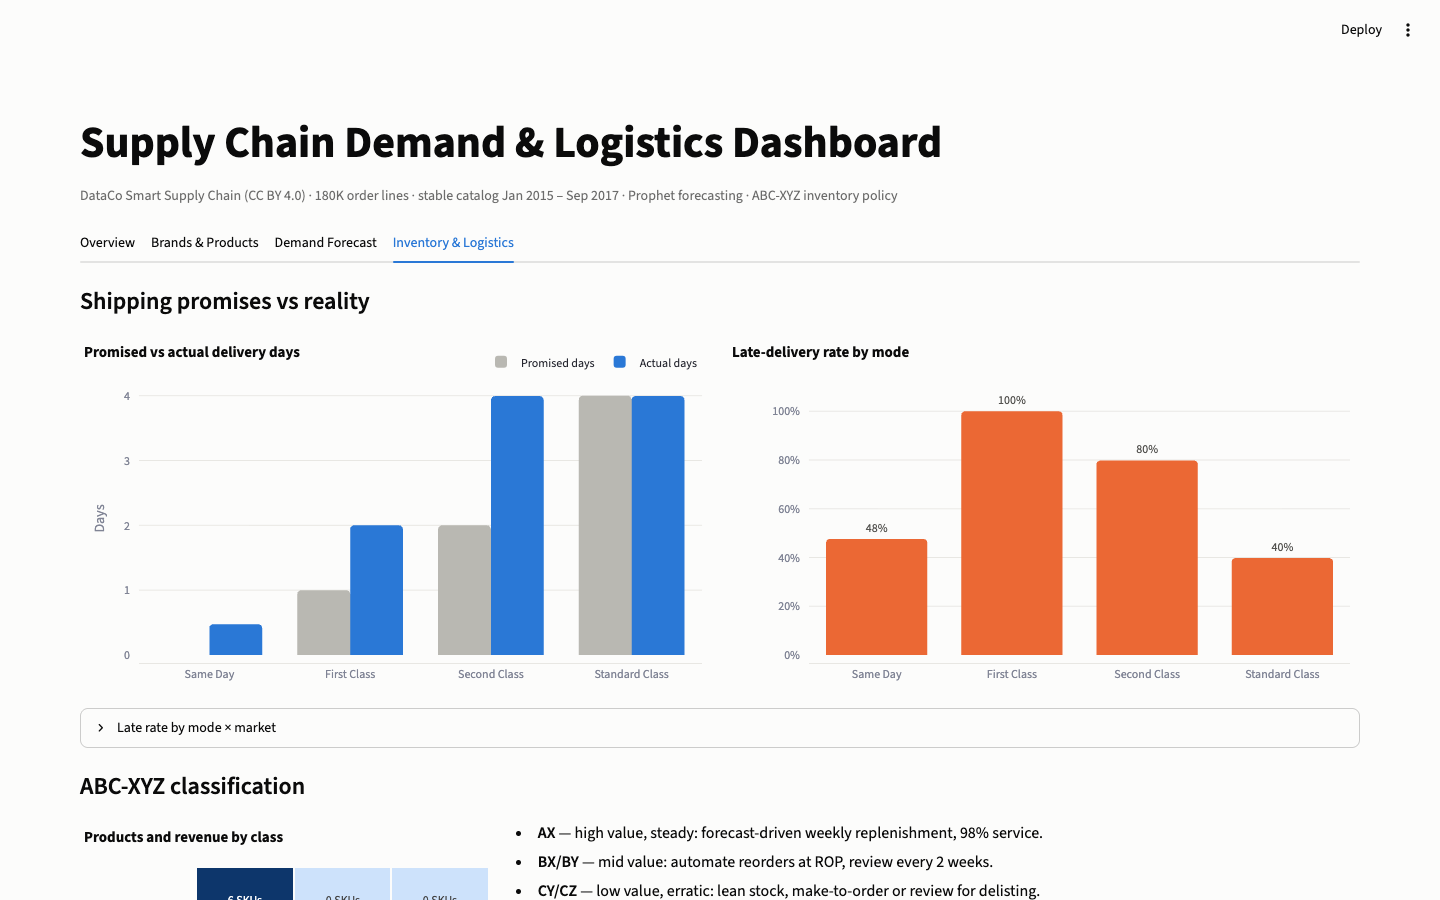
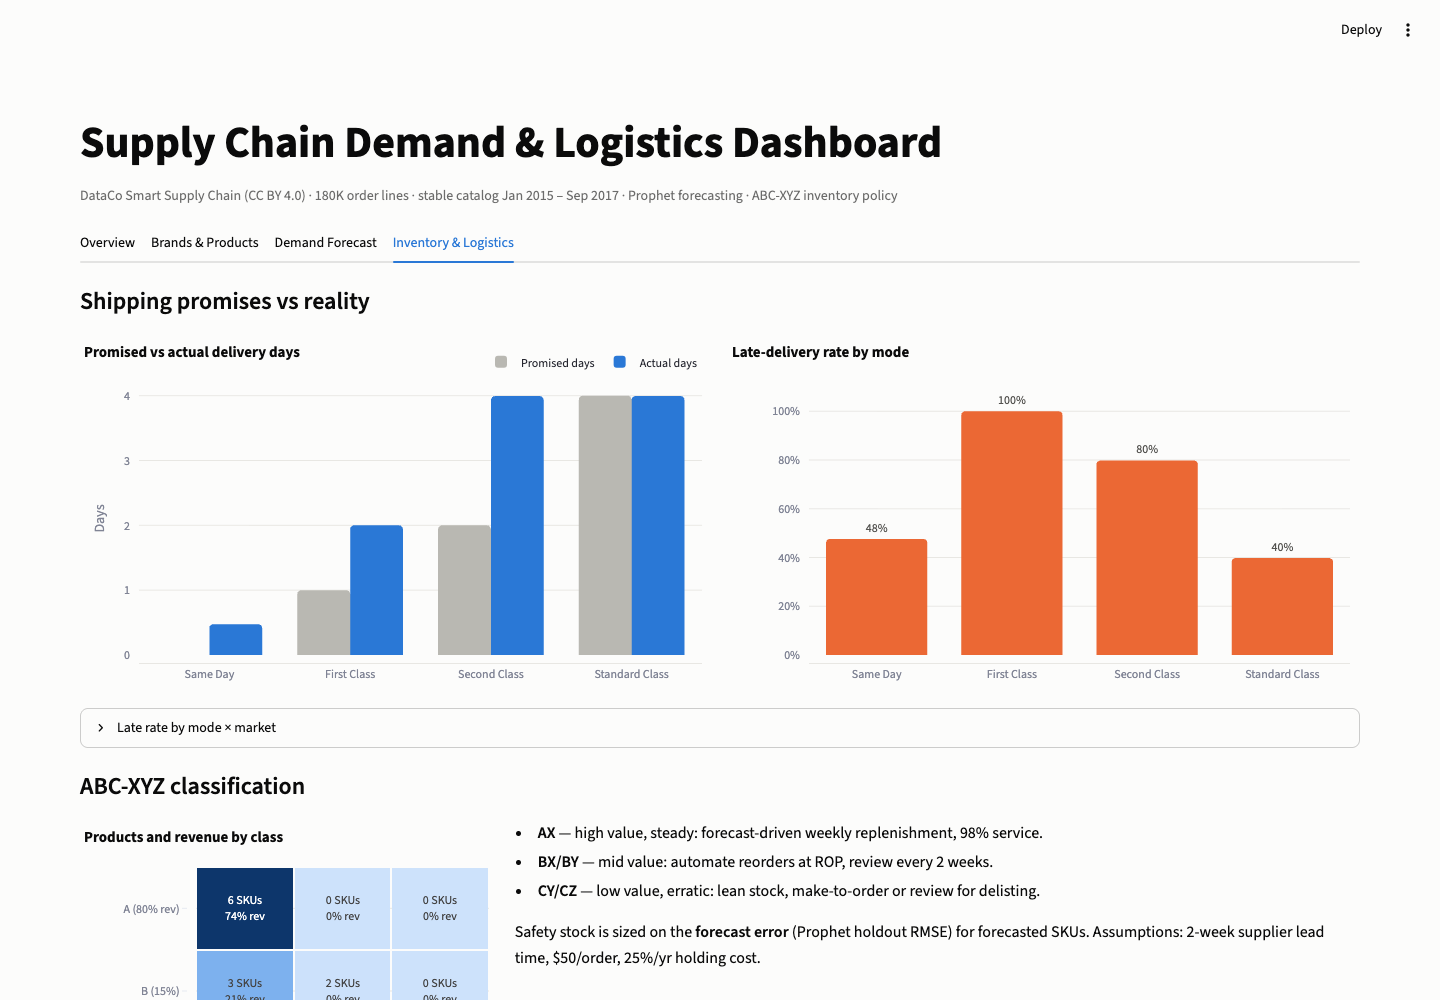
README, Tableau build guide, data notes, fresh screenshots
Claude-Session: https://claude.ai/code/session_01QJFcjiMswgafk1HRE6gMWa

diff --git a/README.md b/README.md
@@ -1,39 +1,125 @@
-# Supply Chain Demand Forecasting Dashboard
+# Supply Chain Demand & Logistics Dashboard
 
-Python + Tableau pipeline that forecasts weekly demand across 180K+
-supply-chain order records and flags the weeks where reality broke the
-forecast.
+**What sells, how much will sell next, and how should we order and ship it?**
 
-**Status:** Week 1 build in progress (target: live dashboard by 2026-07-31).
+An end-to-end Python pipeline over **180K sporting-goods & apparel order lines**
+(Nike is the #1 brand at 34% of units) that ranks brands and styles, forecasts
+weekly demand with Prophet against a seasonal-naive baseline, flags demand and
+delivery anomalies, and turns the forecast into an **ordering policy**: ABC-XYZ
+classes, safety stock, reorder points, EOQ, and a shipping-mode scorecard.
+An optional module adds **real fashion style trends** from 31M H&M purchases.
+Results ship in a Streamlit dashboard plus Tableau-ready extracts.
+
+![Overview](docs/screenshots/dash_overview.png)
+
+## Key findings
+
+| | Finding | So what |
+|---|---|---|
+| 🚚 | **First Class is late on 100% of orders** (promised 1 day, delivers in 2). Second Class takes 4.0 days, identical to Standard. | Customers pay for speed they don't get. Re-quote First Class as 2-day, Second as 4-day (or retire it). Late rate is flat across all 5 markets, so this is a promise-setting problem, not a carrier-region problem. |
+| 👟 | **Nike is the #1 brand: 34% of units** across 13 products. The Dri-FIT Victory Golf Polo is the #2 product overall. | Nike SKUs dominate class A: they get weekly forecast-driven replenishment at a 98% service level. |
+| 📦 | **6 products = 74% of revenue** (class AX); 90 products split 3%/2% of revenue across erratic Y/Z classes. | Concentrate planning effort on 6 SKUs; make-to-order or review the CZ tail for delisting. |
+| 📈 | **Prophet beats seasonal-naive**: 10.2% vs 11.6% MAPE by category, 10.0% vs 11.4% WAPE by product (~12% better, wins 6 of 9 products). | Sizing safety stock on Prophet's error instead of naive's frees **$5.4K** of inventory at the same service level, led by the Nike Dri-FIT polo (40 fewer units). |
+| ⚠ | **5.3% of category-weeks** breach the 95% band (2 high severity); 29 region-weeks show late-rate spikes >2σ. | Only medium/high flags are actionable; ~5% low flags are what a 95% band produces by chance. |
+
+Full generated memo: [`outputs/recommendations.md`](outputs/recommendations.md).
+
+## Dashboard
+
+```bash
+python run_pipeline.py          # ~5 s on DataCo; + a few minutes if H&M data is present
+streamlit run app/streamlit_app.py
+```
+
+| Brands & Products | Demand Forecast | Inventory & Logistics |
+|---|---|---|
+| ![](docs/screenshots/dash_brands.png) | ![](docs/screenshots/dash_forecast.png) | ![](docs/screenshots/dash_inventory.png) |
+
+Tableau Public version: build from `tableau/*.csv` with
+[`docs/tableau_build_guide.md`](docs/tableau_build_guide.md).
 
 ## Pipeline
 
 ```
 data/raw/DataCoSupplyChainDataset.csv
-  → src/etl.py          clean + type-fix           → data/processed/orders_clean.parquet
-  → src/aggregate.py    order lines → weekly demand → data/processed/demand_weekly.csv
-  → src/forecast.py     Prophet vs seasonal-naive   → outputs/forecasts.csv, metrics.csv
-  → src/anomalies.py    interval-breach flags       → outputs/anomalies.csv
-  → src/build_extract.py                            → tableau/dashboard_data.csv
-  → Tableau Public dashboard
+  → src/etl.py           clean, derive brand/style/segment, drop PII  → orders_clean.parquet
+  → src/aggregate.py     weekly demand + fulfillment, stable window   → demand_weekly.csv
+  → src/forecast.py      Prophet vs seasonal-naive, 12-wk holdout     → forecasts, metrics
+  → src/products.py      brand/product ranking, SKU forecasts, outlook → product_*.csv
+  → src/anomalies.py     interval-breach + late-rate spike flags      → anomalies.csv
+  → src/inventory.py     ABC-XYZ, SS/ROP/EOQ, shipping scorecard      → inventory_policy.csv, recommendations.md
+  → src/hm_styles.py     (optional) H&M style trends via DuckDB       → hm_*.csv
+  → src/build_extract.py tidy per-view extracts                       → tableau/*.csv
+  → app/streamlit_app.py dashboard (reads outputs only, no model runs)
 ```
 
-Run everything: `python run_pipeline.py`
+## Forecast accuracy (12-week holdout, unseen by the model)
 
-## Dataset
+**By category (MAPE %)**
 
-DataCo Smart Supply Chain — 180,519 order lines × 53 columns (2015–2018),
-licensed **CC BY 4.0**. Not committed to this repo; download from Mendeley:
-https://data.mendeley.com/datasets/8gx2fvg2k6/5 → place
-`DataCoSupplyChainDataset.csv` and `DescriptionDataCoSupplyChain.csv`
-in `data/raw/`.
+| Category | Seasonal naive | Prophet |
+|---|---|---|
+| Cardio Equipment | 10.9 | **9.1** |
+| Cleats | **5.4** | 5.4 |
+| Fishing | **11.0** | 11.1 |
+| Indoor/Outdoor Games | 15.7 | **12.5** |
+| Men's Footwear | **8.7** | 9.0 |
+| Shop By Sport | 17.8 | **13.8** |
+| Water Sports | **14.1** | 14.4 |
+| Women's Apparel | 8.9 | **6.5** |
+| **Mean** | 11.6 | **10.2** |
 
-> Constante, F., Silva, F., & Pereira, A. (2019). DataCo Smart Supply
-> Chain for Big Data Analysis. Mendeley Data, V5. doi:10.17632/8gx2fvg2k6.5
+**By product (WAPE %)**. WAPE is used because MAPE is undefined on zero-sale weeks.
+
+| Product | Seasonal naive | Prophet |
+|---|---|---|
+| Nike Men's Dri-FIT Victory Golf Polo | 8.7 | **6.2** |
+| Nike Men's Free 5.0+ Running Shoe | 10.9 | **10.5** |
+| Nike Men's CJ Elite 2 TD Football Cleat | **8.5** | 8.7 |
+| Under Armour Girls' Toddler Spine Surge Running Shoe | 17.7 | **13.3** |
+| O'Brien Men's Neoprene Life Vest | 15.3 | **11.9** |
+| Perfect Fitness Perfect Rip Deck | **5.9** | 6.1 |
+| Pelican Sunstream 100 Kayak | 14.1 | **13.2** |
+| Diamondback Women's Serene Classic Comfort Bike | 10.4 | **9.3** |
+| Field & Stream Sportsman 16 Gun Fire Safe | **11.1** | 11.4 |
+| **Mean** | 11.4 | **10.0** |
+
+Where naive wins, the dashboard says so and recommends keeping naive for that
+item. The model is picked per SKU, not one model for the whole catalog.
+
+## Inventory policy method
+
+- **ABC** by cumulative revenue (80 / 15 / 5%); **XYZ** by coefficient of variation of weekly units (≤0.5 / ≤1.0 / >1.0).
+- **Safety stock** `SS = z·σ·√L`, **reorder point** `ROP = d·L + SS`, **EOQ** `√(2DS/H)`; service level A 98%, B 95%, C 90%.
+- σ = Prophet holdout RMSE for forecasted SKUs (safety stock buffers forecast error, not raw volatility); demand d = mean of the 12-week Prophet outlook.
+- **Assumptions** (not in the data, stated so they can be challenged): 2-week supplier lead time, $50 per order, 25%/yr holding cost, unit cost = price × (1 − margin). DataCo's shipping days are customer-delivery times, so they feed the shipping scorecard, not the supplier lead time.
+
+## Data
+
+**DataCo Smart Supply Chain**: 180,519 order lines × 53 columns (2015–2018), **CC BY 4.0**.
+Download from [Mendeley](https://data.mendeley.com/datasets/8gx2fvg2k6/5) into `data/raw/`.
+
+> Constante, F., Silva, F., & Pereira, A. (2019). DataCo Smart Supply Chain for Big Data Analysis. Mendeley Data, V5. doi:10.17632/8gx2fvg2k6.5
+
+**H&M Personalized Fashion Recommendations** (optional style module): ~31M
+purchases, Sep 2018 – Sep 2020, from [Kaggle](https://www.kaggle.com/competitions/h-and-m-personalized-fashion-recommendations).
+Requires a Kaggle account with the competition rules accepted; see
+`src/hm_styles.py` for download commands. Only aggregates are produced; raw H&M
+data is never committed or redistributed.
+
+**Honest notes**
+- Brands like Nike don't publish transaction data. Brand analysis here uses the
+  real brand names in DataCo's (public, CC BY) product catalog, not Nike's own sales.
+- DataCo's catalog changes over completely in Oct 2017; analysis uses the stable
+  regime Jan 2015 – Sep 2017 (143 weeks). See [`DATA_NOTES.md`](DATA_NOTES.md).
+- Anomaly flags are **in-sample** interval breaches (they mark unusual weeks, not
+  forecast failures); forecast accuracy is reported on the out-of-sample holdout.
+- No customer PII leaves the ETL stage; `data/` and `.env` are gitignored.
 
 ## Setup
 
 ```bash
 python3 -m venv .venv && source .venv/bin/activate
 pip install -r requirements.txt
+python run_pipeline.py && streamlit run app/streamlit_app.py
 ```

diff --git a/docs/tableau_build_guide.md b/docs/tableau_build_guide.md
@@ -1,0 +1,64 @@
+# Tableau Public Build Guide
+
+Rebuild the Streamlit dashboard in Tableau Public (free) for the portfolio link.
+Every number comes from `tableau/*.csv`, so run `python run_pipeline.py` first.
+Budget: ~2 hours for all four dashboards.
+
+**Colors** (match the Streamlit app): primary `#2a78d6`, second series `#eb6834`,
+third `#1baf7a`, muted/other `#b9b8b2`, anomaly `#d03b3b`, background `#fcfcfb`.
+
+## 0. Connect the data
+1. Tableau Public → **Connect → Text file** → `tableau/demand_fit.csv`.
+2. Add the other CSVs as **separate data sources** (Data → New Data Source).
+   Don't join them; each sheet uses one source.
+3. For every `week` field: right-click → **Change Data Type → Date**.
+
+## 1. Overview dashboard
+| Sheet | Source | Build |
+|---|---|---|
+| KPI: Units | `brands.csv` | `SUM(units)` on Text. Format as `#,##0,K`. |
+| KPI: Nike share | `brands.csv` | Filter brand = Nike; `SUM(unit_share)` on Text, % format. |
+| KPI: Forecast MAPE | `forecast_accuracy.csv` | Filter level = Category; `AVG(error_pct)` on Text; `model` on Columns. |
+| KPI: Late rate | `shipping.csv` | Calculated field `SUM([late_rate]*[order_lines])/SUM([order_lines])`. |
+| Weekly demand | `demand_fit.csv` | `week` (exact week, continuous) → Columns; `SUM(actual)` → Rows; line. Axis: include zero. |
+
+Dashboard: KPIs in a horizontal container across the top, line chart below.
+
+## 2. Brands & Products
+| Sheet | Source | Build |
+|---|---|---|
+| Top brands | `brands.csv` | `brand` → Rows, `SUM(units)` → Columns, sort desc, Top 10 filter. Color: calc `IF [brand]="Nike" THEN "Nike" ELSE "Other" END` → Nike `#2a78d6`, Other `#b9b8b2`. Label `unit_share`. |
+| Brand trend | `brand_weekly.csv` | `week` → Columns, `SUM(units)` → Rows, `brand` → Color; filter to Nike / Perfect Fitness / O'Brien. Quick table calc: moving average, 4 weeks. |
+| Top products | `products.csv` | `product_name` → Rows, `SUM(units)` → Columns, Top 15, brand-highlight color as above; tooltip: brand, style, revenue, margin. |
+| Styles | `style_weekly.csv` | `style` → Rows, `SUM(units)` → Columns; `segment` as a **filter** (show as single-value list). |
+
+Add `brand` from `products.csv` as a dashboard filter applied to Top products.
+
+## 3. Demand Forecast
+| Sheet | Source | Build |
+|---|---|---|
+| Forecast vs actual | `forecast_holdout.csv` | `week` → Columns; Measure Values (`actual`, `yhat`) → Rows; `model` → Color. Filters: `level`, `item` (single value dropdown). |
+| Band | same sheet | Dual-axis is **not** used — instead add `yhat_lower`/`yhat_upper` as a **reference band** (Analytics → Reference Band, per cell). |
+| Anomalies | `demand_fit.csv` | `week` → Columns, `SUM(actual)` → Rows (line) + second mark: filter `severity` in (high, medium) as red `#d03b3b` diamonds. Filter `category`. |
+| Accuracy table | `forecast_accuracy.csv` | `item` → Rows, `model` → Columns, `AVG(error_pct)` → Text; highlight the lower value per row. |
+
+## 4. Inventory & Logistics
+| Sheet | Source | Build |
+|---|---|---|
+| Promised vs actual | `shipping.csv` | `shipping_mode` → Columns; Measure Names/Values with `AVG(promised_days)`, `AVG(actual_days)` side-by-side bars (promised `#b9b8b2`, actual `#2a78d6`). |
+| Late rate | `shipping.csv` | `shipping_mode` → Columns, weighted late rate (calc from §1) → Rows, label %. Add `market` as a filter. |
+| ABC-XYZ matrix | `inventory_policy.csv` | `abc` → Rows, `xyz` → Columns, `SUM(revenue_share)` → Color (blue sequential), `CNT(product_name)` + `SUM(revenue_share)` → Label. Square marks. |
+| Ordering policy | `inventory_policy.csv` | Text table: product_name, class, service_level, weekly_demand, safety_stock, reorder_point, eoq, order_every_weeks, action. Filter `brand` (default Nike). |
+| Fulfillment alerts | `fulfillment_alerts.csv` | Text table sorted by `z` desc. |
+
+## 5. Style Trends (only if the H&M stage ran)
+| Sheet | Source | Build |
+|---|---|---|
+| Top styles | `hm_style_summary.csv` | `product_type_name` → Rows, `SUM(units)` → Columns, Top 15. |
+| Momentum | `hm_trends.csv` | `product_type_name` → Rows, `growth` → Columns; color calc `[growth] > 0` (green `#1baf7a` / orange `#eb6834`). Top 8 + bottom 8. |
+| Style forecast | `hm_style_forecasts.csv` | Same as §3 forecast sheet with `product_type_name` filter. |
+| Colour seasonality | `hm_colour_month.csv` | `month` → Columns, `colour_group_name` → Rows (top 8), `SUM(share)` → Color, square marks. |
+
+## Publish
+File → **Save to Tableau Public** → name it "Supply Chain Demand & Logistics Dashboard".
+Copy the public URL into the README (`Live dashboard` line) and onto the resume.

diff --git a/DATA_NOTES.md b/DATA_NOTES.md
@@ -56,3 +56,24 @@ second regime; do not merge the two — they are different product mixes.
 - Demand series: **top 8 categories × 143 weeks** (`demand_weekly.csv`).
 - Fulfillment series: **week × region** late-rate and avg shipping delay,
   canceled orders excluded (`fulfillment_weekly.csv`).
+
+## Brand / product layer (added 2026-10-28)
+
+- DataCo product names carry real brands. Brand = first word, except a
+  whitelist of multi-word brands (Under Armour, Field & Stream, ...) in
+  `etl.py`. **Nike is #1: 126.5K units, 33.8% of the stable window, 13 products.**
+- Source product names are **truncated at 45 characters** ("... Comfort Bi",
+  "... Spine Surge Runni"), so style keywords in `etl.py` include fragments.
+- Volume is extremely concentrated: each top category is effectively one
+  product (e.g. Women's Apparel ≈ Nike Dri-FIT polo, Fishing ≈ Field & Stream
+  gun safe — DataCo's category labels are loose). Product- and category-level
+  forecasts for those pairs therefore match closely; that is expected.
+- 9 products sell in ≥95% of weeks and are forecast; the long tail is sparse
+  (zero-sale weeks), which is why product accuracy is reported as **WAPE**.
+
+## Shipping (added 2026-10-28)
+
+- Delivery promise vs actual is deterministic by mode: First Class always
+  takes 2 days against a 1-day promise (100% late); Second Class takes ~4
+  days against 2 (80% late), identical to Standard's ~4 days. Late rate is
+  ~57% in every market, so lateness is driven by the quoted days, not geography.
